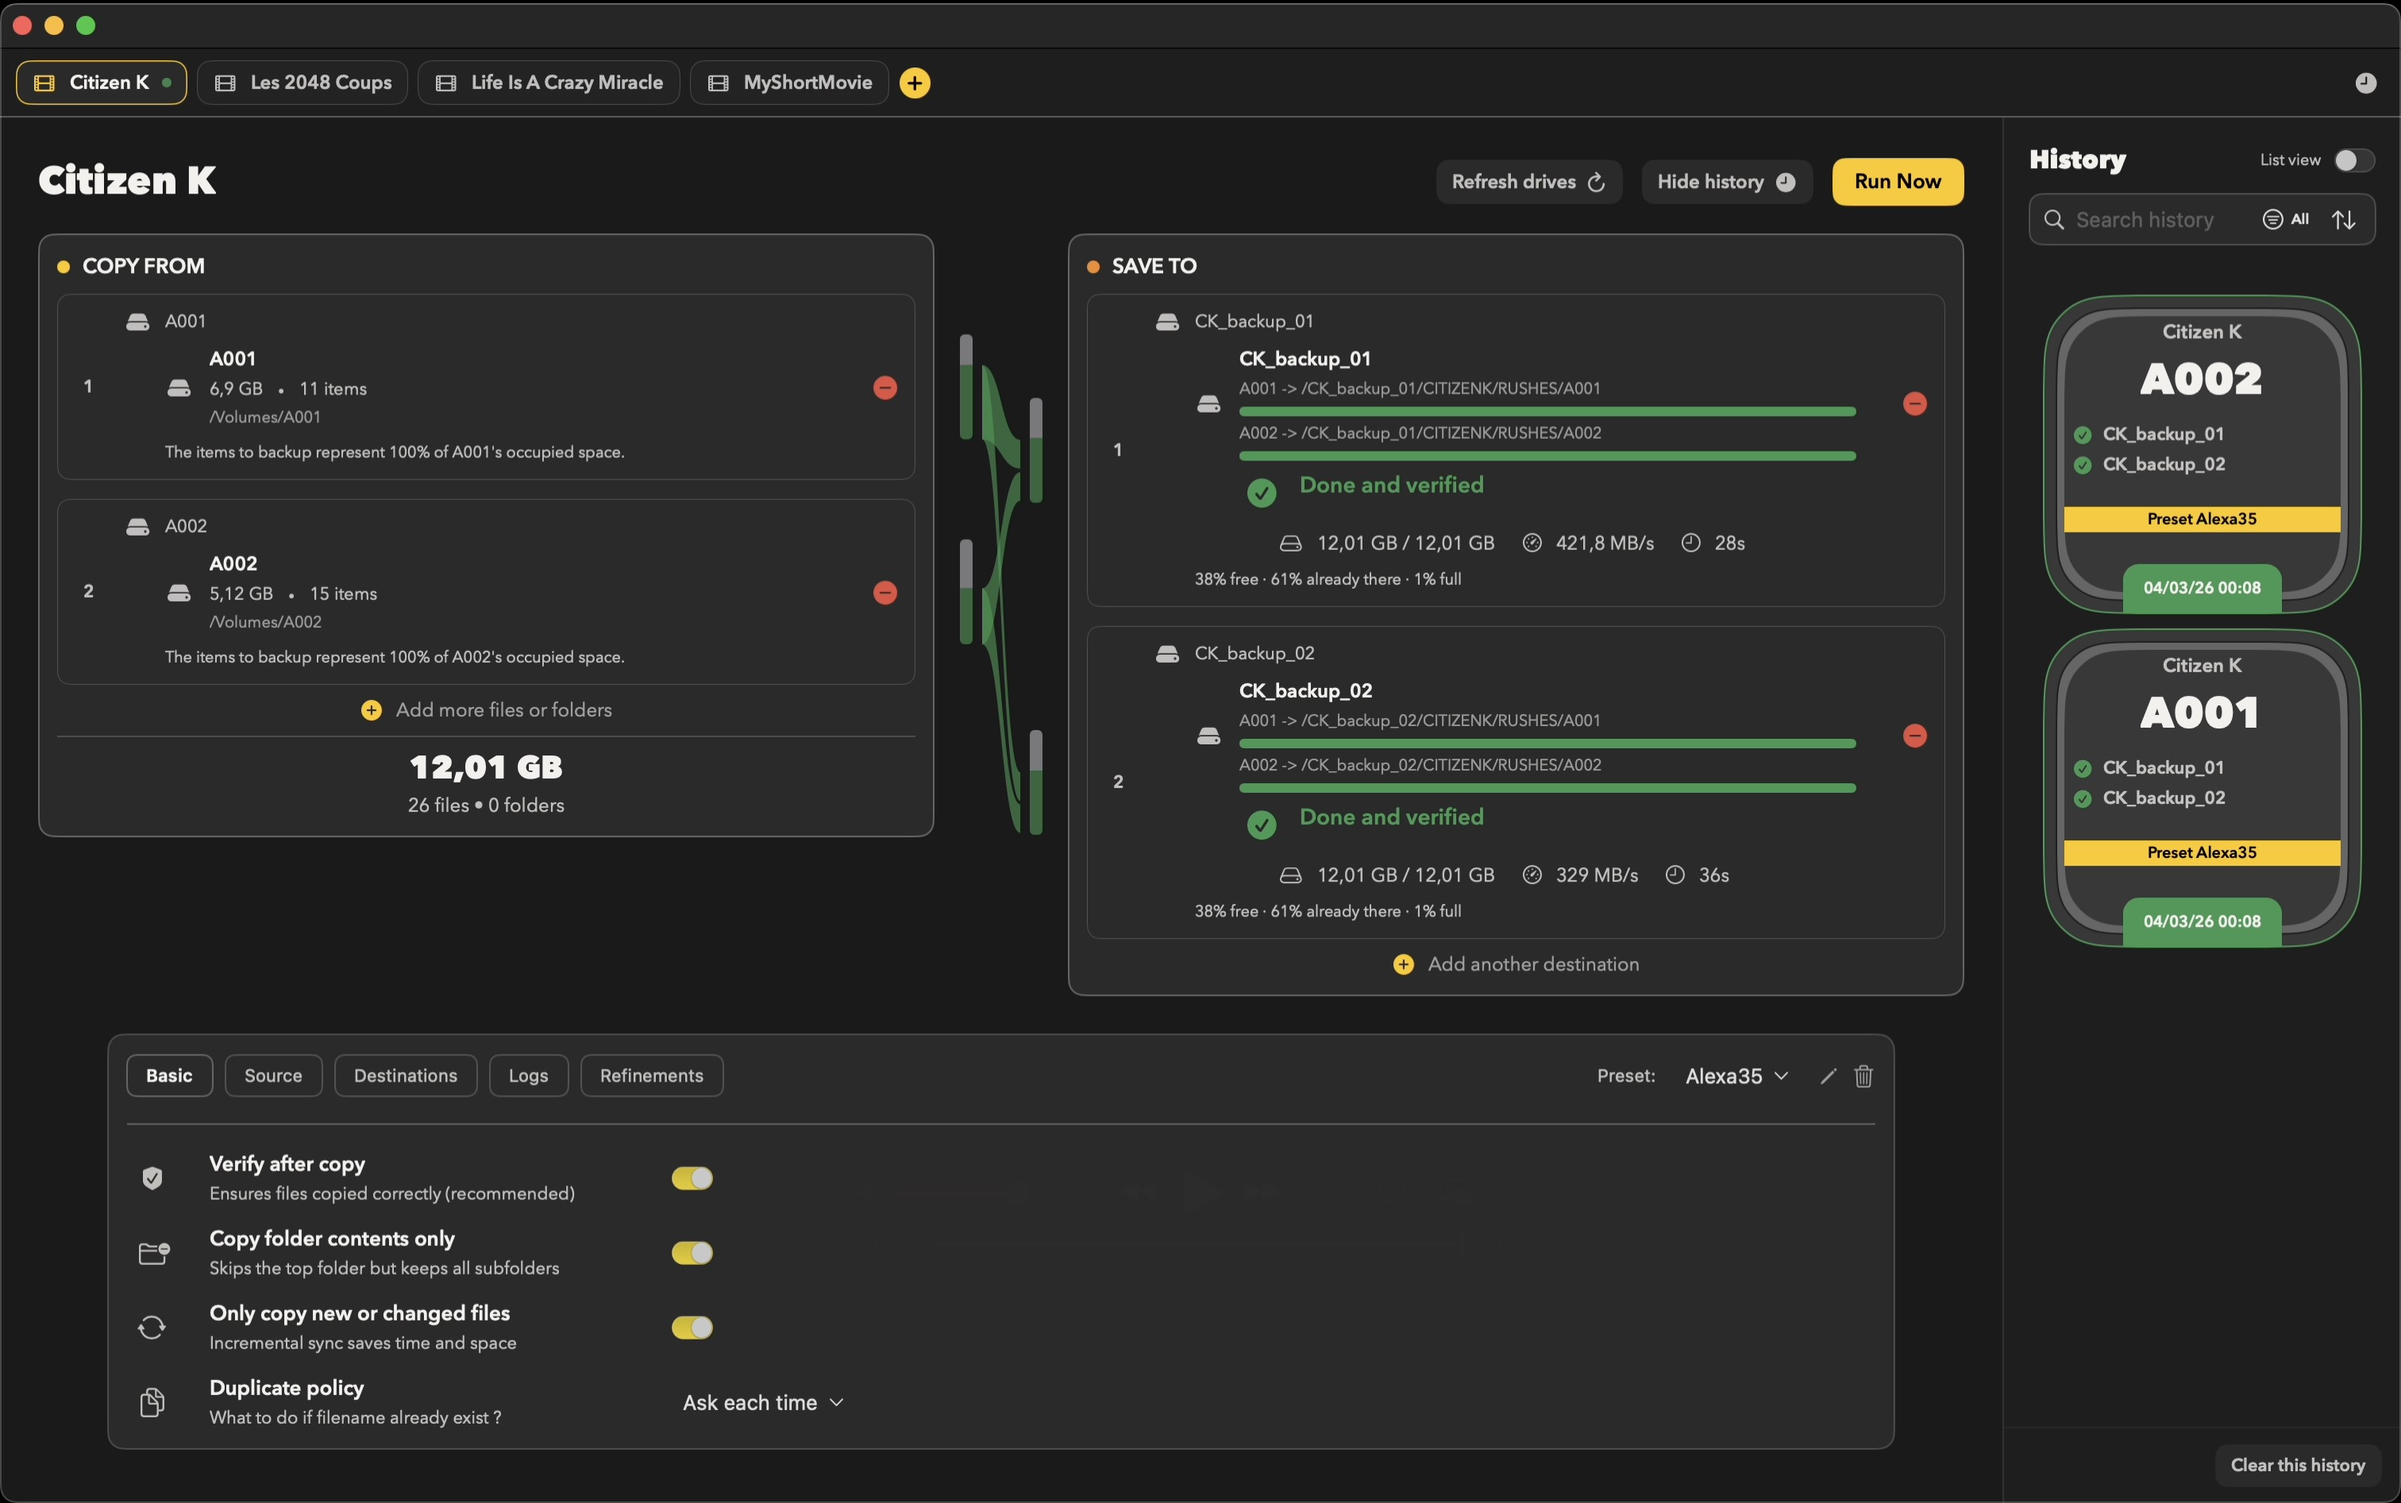
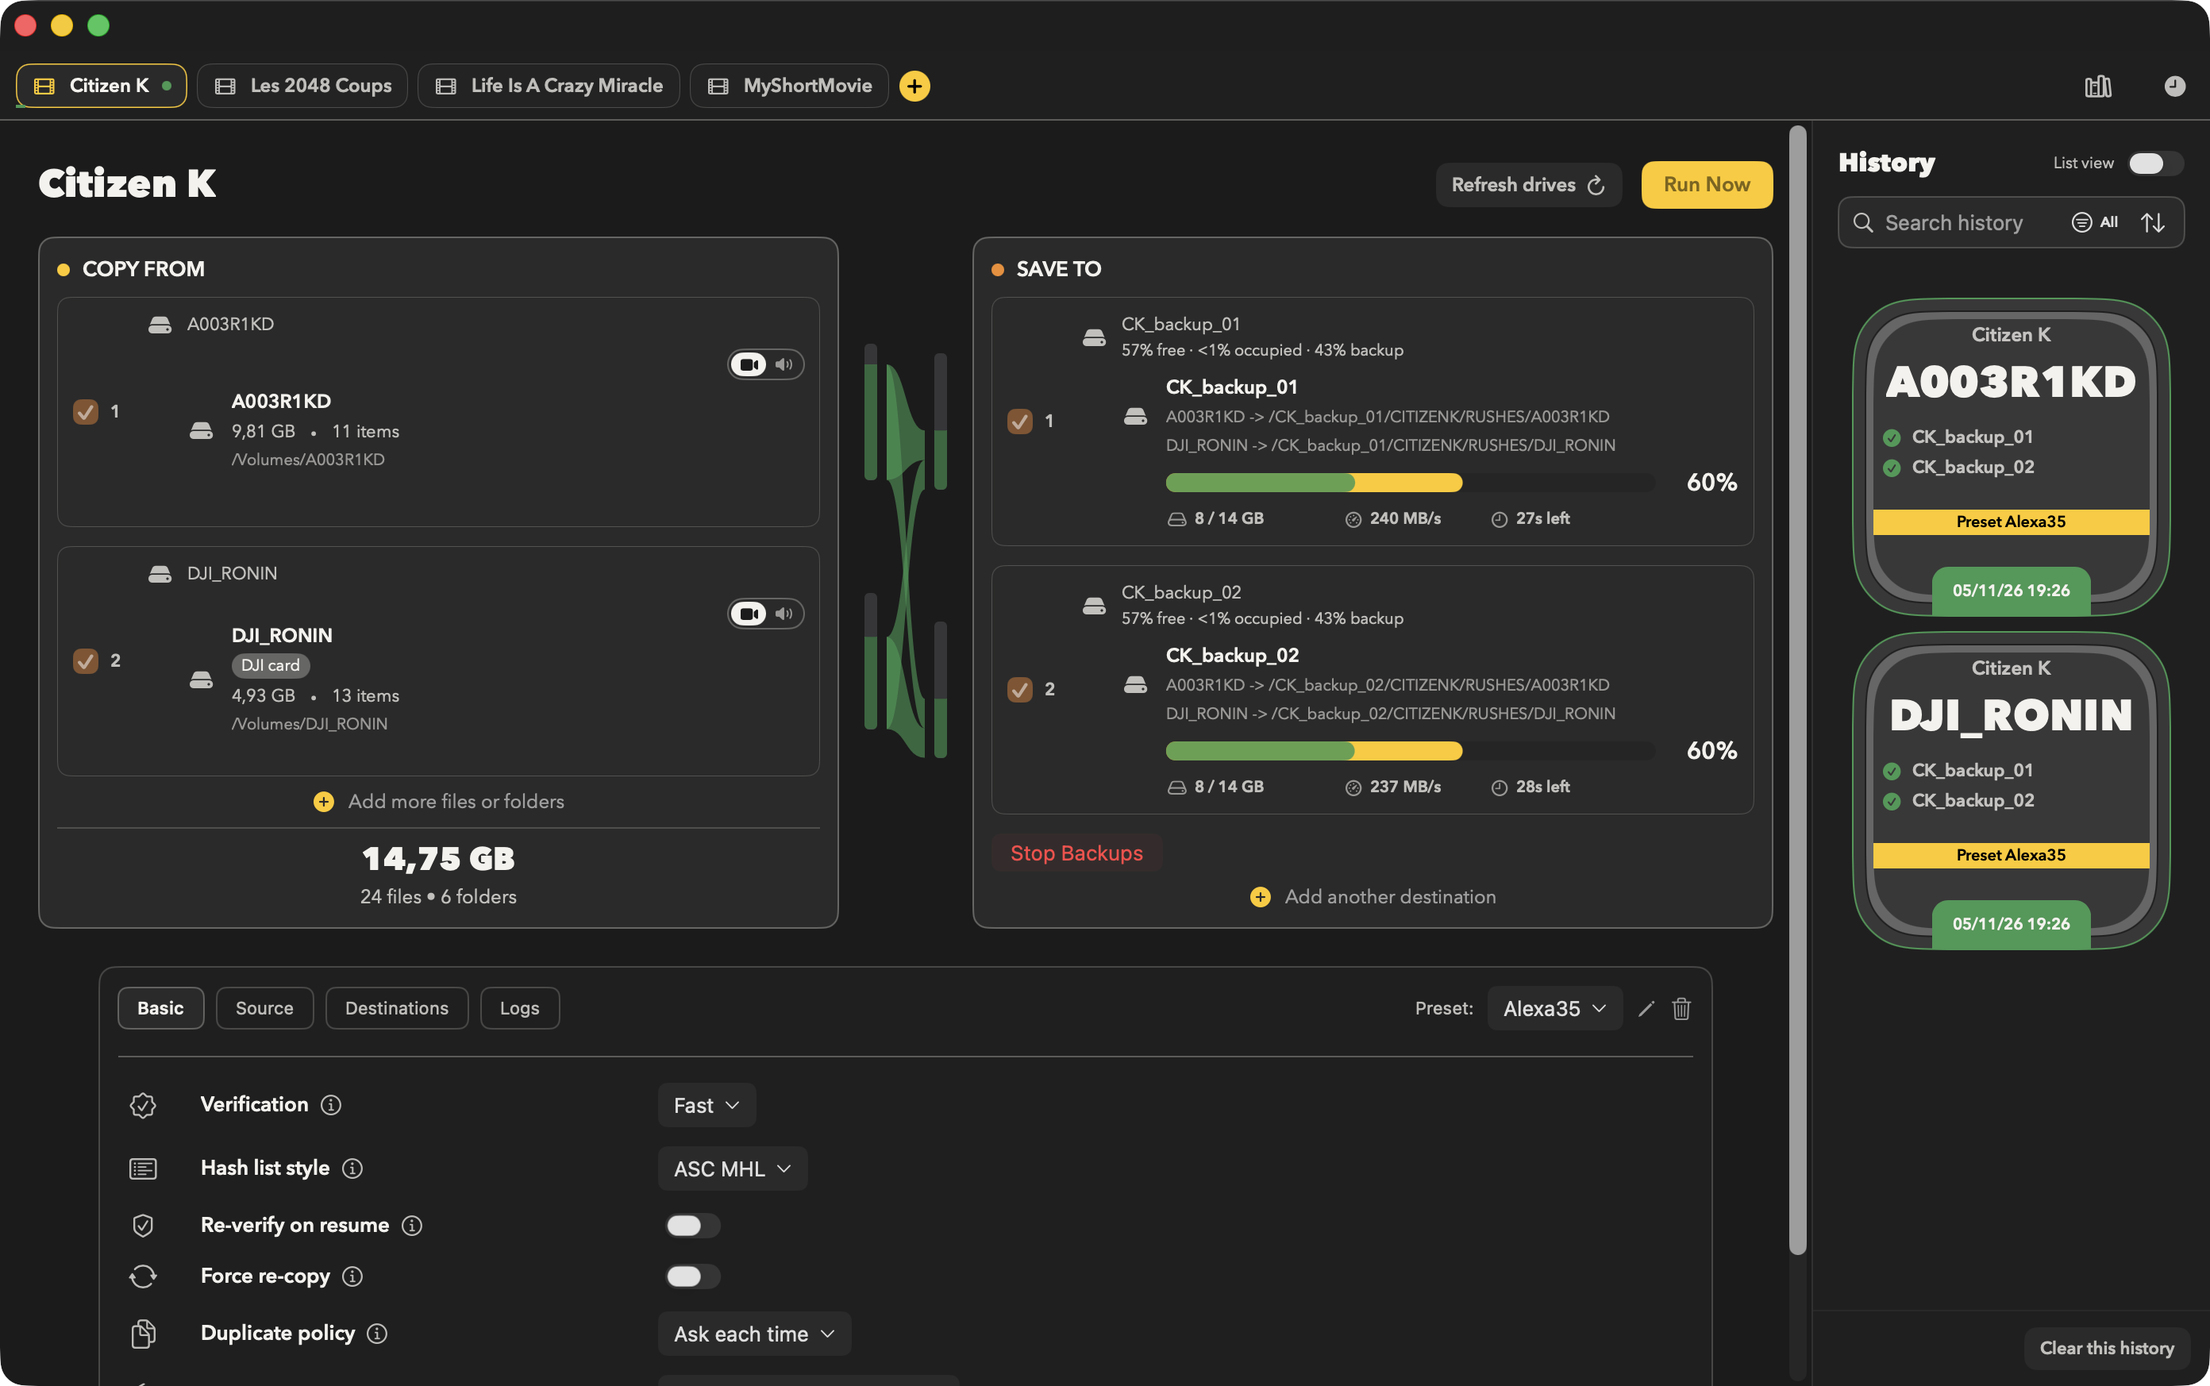
docs(promo): add promo screenshots, asset list, new hero and og-image
- assets/promo: 20 window captures with fake data (ARRI A003R1KD + DJI_RONIN
  to CK_backup_01/02): backup copying/verifying/done, options tabs, settings,
  catalog, Quick Copy
- docs/promo/asset-list.md: assets needed for the website and social media
- hero screenshot (site + README) and og-image replaced

diff --git a/docs/promo/asset-list.md b/docs/promo/asset-list.md
@@ -1,0 +1,50 @@
+# FilmCan — assets promo (site + réseaux)
+
+Statut : **[S]** = capture d'écran de l'app (faite dans `assets/promo/`), **[M]** = montage à partir des captures, **[V]** = vidéo/GIF, **[T]** = texte/design seul.
+
+## 1. Site web (`website-src/index.template.html`)
+
+| # | Asset | Format | Où | Source |
+|---|-------|--------|----|--------|
+| W1 | Capture héros : copie en cours vers 2 disques (ARRI + DJI), onglets films | 3024×1894 (2×) | hero, remplace `screenshot-main.png` | [S] |
+| W2 | Capture « terminé et vérifié » + historique en cartes | 3024×1894 | section « Verified for you » | [S] |
+| W3 | Zoom sur une carte destination (barre jaune copie + verte vérif, débit, ETA) | ~1400×900 recadré | tuile fonctionnalité « Multi-destination » | [S] |
+| W4 | Panneau Options (Basic / Destinations / Refinements) | ~1600×700 | tuile « Vérification, doublons, presets » | [S] |
+| W5 | Réglages (accent Kodak/Fuji/Sony/RED/ARRI, notifications ntfy, historique) | ~1200×900 | tuile « Personnalisable » | [S] |
+| W6 | Fenêtre Quick Copy (clic droit Finder → Services) | ~900×700 | section dédiée Quick Copy | [S] |
+| W7 | Quick Copy en cours de copie | ~900×700 | idem | [S] |
+| W8 | Catalogue / rapport PDF / numérotation A001-S001 | selon UI | tuiles nouveautés 1.4+ | à faire |
+| W9 | `og-image.png` | 1200×630 | partage lien (Slack, X, LinkedIn) | [M] |
+| W10 | Favicon / apple-touch-icon | déjà présents | — | — |
+| W11 | Boucle courte de copie (10 s, sans son) | MP4 + WebM, 1600×1000 | hero ou « How it works » | [V] |
+| W12 | 4 étapes « How it works » (sources → destinations → Run → vérifié) | 4 crops | section `#how` | [M] |
+| W13 | Variantes FR / DE / ES si l'UI est traduite | idem W1 | pages `/fr`, `/de`, `/es` | à voir |
+
+## 2. Réseaux sociaux
+
+| # | Asset | Format | Plateforme | Source |
+|---|-------|--------|------------|--------|
+| S1 | Carte « Une passe, tous les disques » (capture W1 dans un cadre) | 1080×1350 (4:5) | Instagram, LinkedIn | [M] |
+| S2 | Carte carrée vérification xxHash128 + ASC MHL | 1080×1080 | Instagram, Mastodon | [M] |
+| S3 | Story / Reel : Quick Copy depuis le Finder (3 écrans) | 1080×1920 | Instagram, TikTok | [M]/[V] |
+| S4 | Image d'annonce de version (numéro + 3 nouveautés) | 1600×900 | X, LinkedIn, Bluesky | [M] |
+| S5 | Capture seule, fond sombre propre, coins arrondis | 2400×1500 | Reddit, forums DIT, Product Hunt | [S] |
+| S6 | Galerie Product Hunt (5 images) | 1270×760 | Product Hunt | [M] |
+| S7 | Social preview GitHub | 1280×640 | dépôt GitHub | [M] |
+| S8 | Démo 30 s : carte → 2 disques → ✓ vérifié | 1920×1080 + 1080×1920 | YouTube, X, Reels | [V] |
+| S9 | GIF : barre jaune → verte, coche finale | 800 px large | README, forums | [V] |
+| S10 | Avant/après « Finder vs FilmCan » (pas de vérif vs hash-check) | 1080×1350 | LinkedIn | [M] |
+
+## 3. Kit presse / README
+
+- Icône 1024 px fond transparent, logo + nom (clair et sombre).
+- 3 captures plein écran (W1, W2, W5) sans coins ombrés.
+- Texte court (1 ligne, 1 paragraphe), liste de fonctions, lien de téléchargement, version, licence GPL-3.0.
+- README : bandeau GitHub (S7) + GIF (S9).
+
+## 4. Règles pour toutes les captures
+
+- Données factices uniquement : projets `Citizen K`, `Les 2048 Coups`, `Life Is A Crazy Miracle`, `MyShortMovie` ; cartes `A003R1KD` (ARRI), `DJI_RONIN` (DJI) ; disques `CK_backup_01/02`. Aucun chemin ni nom réel.
+- Fenêtre sans ombre portée (`screencapture -o`), mode sombre, accent par défaut.
+- Toujours 2× (Retina) ; réduire à la sortie, jamais agrandir.
+- Pas de dock, pas de barre de menus, pas de notification visible.

diff --git a/assets/promo/README.md b/assets/promo/README.md
@@ -1,0 +1,21 @@
+# Captures promo FilmCan (données factices)
+
+Fenêtre seule, mode sombre, coins transparents, Retina 2×. Projets `Citizen K` / `Les 2048 Coups` / `Life Is A Crazy Miracle` / `MyShortMovie`. Sources `A003R1KD` (ARRI), `DJI_RONIN` (DJI). Destinations `CK_backup_01/02`, preset `Alexa35`. Aucun chemin ni nom réel.
+
+| Fichier | Contenu | Usage conseillé |
+|---------|---------|-----------------|
+| 01-backup-ready | Avant lancement, 2 cartes + 2 disques | étape « Add sources / destinations » |
+| 02-backup-copying-36 | Copie 36 %, barre jaune | hero secondaire |
+| **03-backup-copying-60** | Copie 60 % : jaune + vert, 240 Mo/s, 27 s | **hero du site** (remplace `screenshot-main.png`) |
+| 04-backup-verifying-77 | 77 %, vérif qui suit la copie | tuile « vérifié » |
+| **05-backup-done** | 100 % ✓, cartes d'historique | **« Verified for you »**, annonce de version |
+| 06/07/08-options-* | Onglets Source / Destinations / Logs | tuiles « options » |
+| 10 à 15-settings-* | Apparence, Notifications, Push, Historique, Disques, Raccourcis | tuile « personnalisable » |
+| **16-catalog-search** | Catalogue : clips ARRI trouvés par nom, 2 copies ✓ | tuile Catalogue |
+| **20-quickcopy-setup** | Quick Copy : sources, preset, arbre de dossiers | section Quick Copy |
+| 21 à 23-quickcopy-* | Copie 21 % / 48 % / vérif 88 % | Quick Copy en action |
+| **24-quickcopy-done** | « Copied and verified » ×2 | fin de séquence Quick Copy |
+
+Non fait : « À propos » (contient l'IBAN du dev), Catalogue sans recherche (DJI affiche « 0 files »), onglet Netflix Ingest, rapport PDF, numérotation A001/S001.
+
+Reproduire : voir `docs/promo/asset-list.md` (liste complète des assets site + réseaux).
